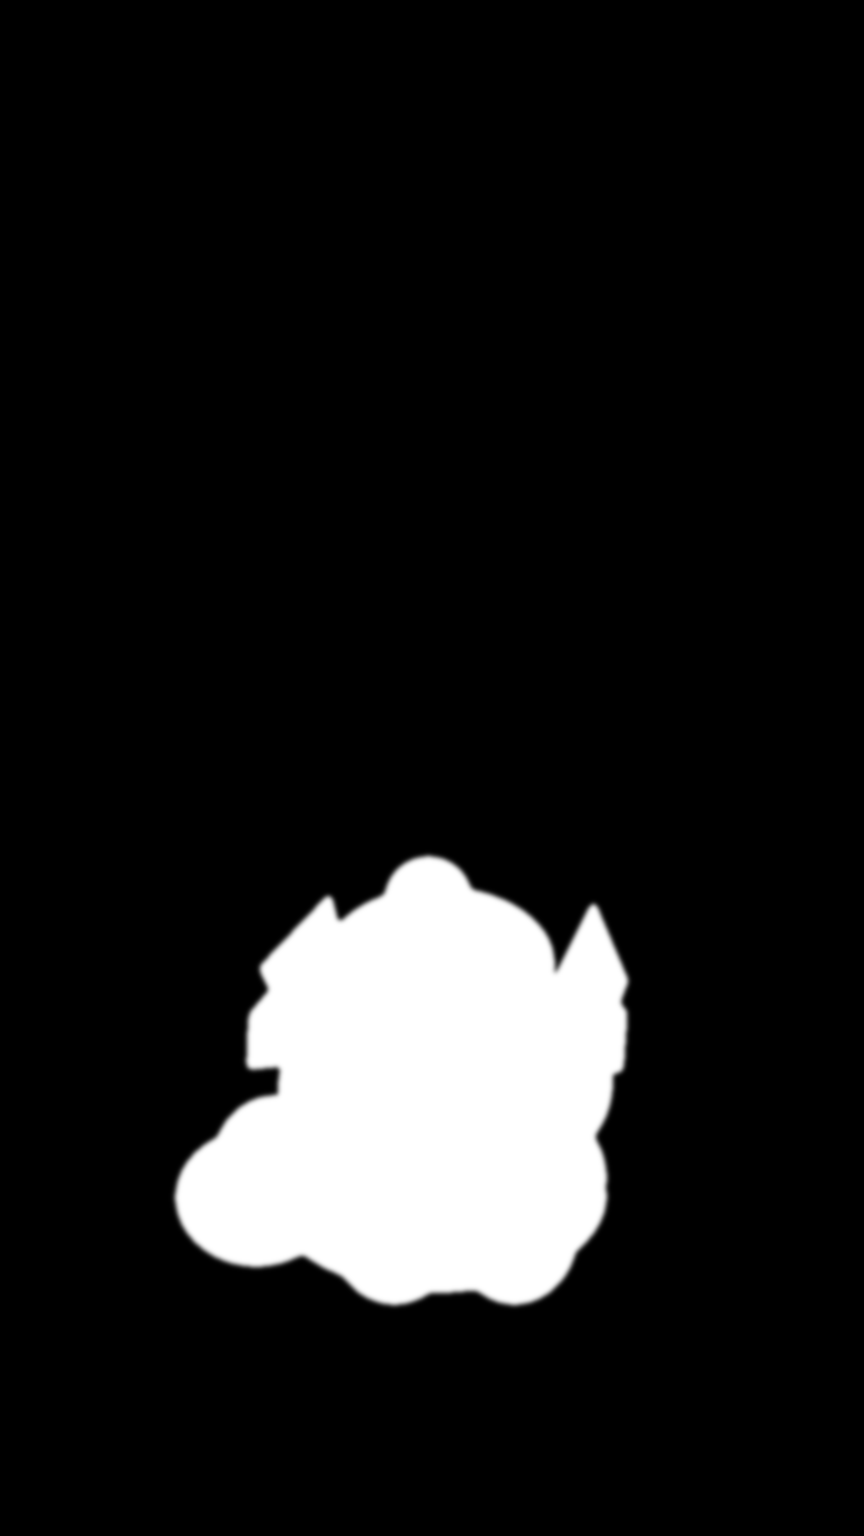
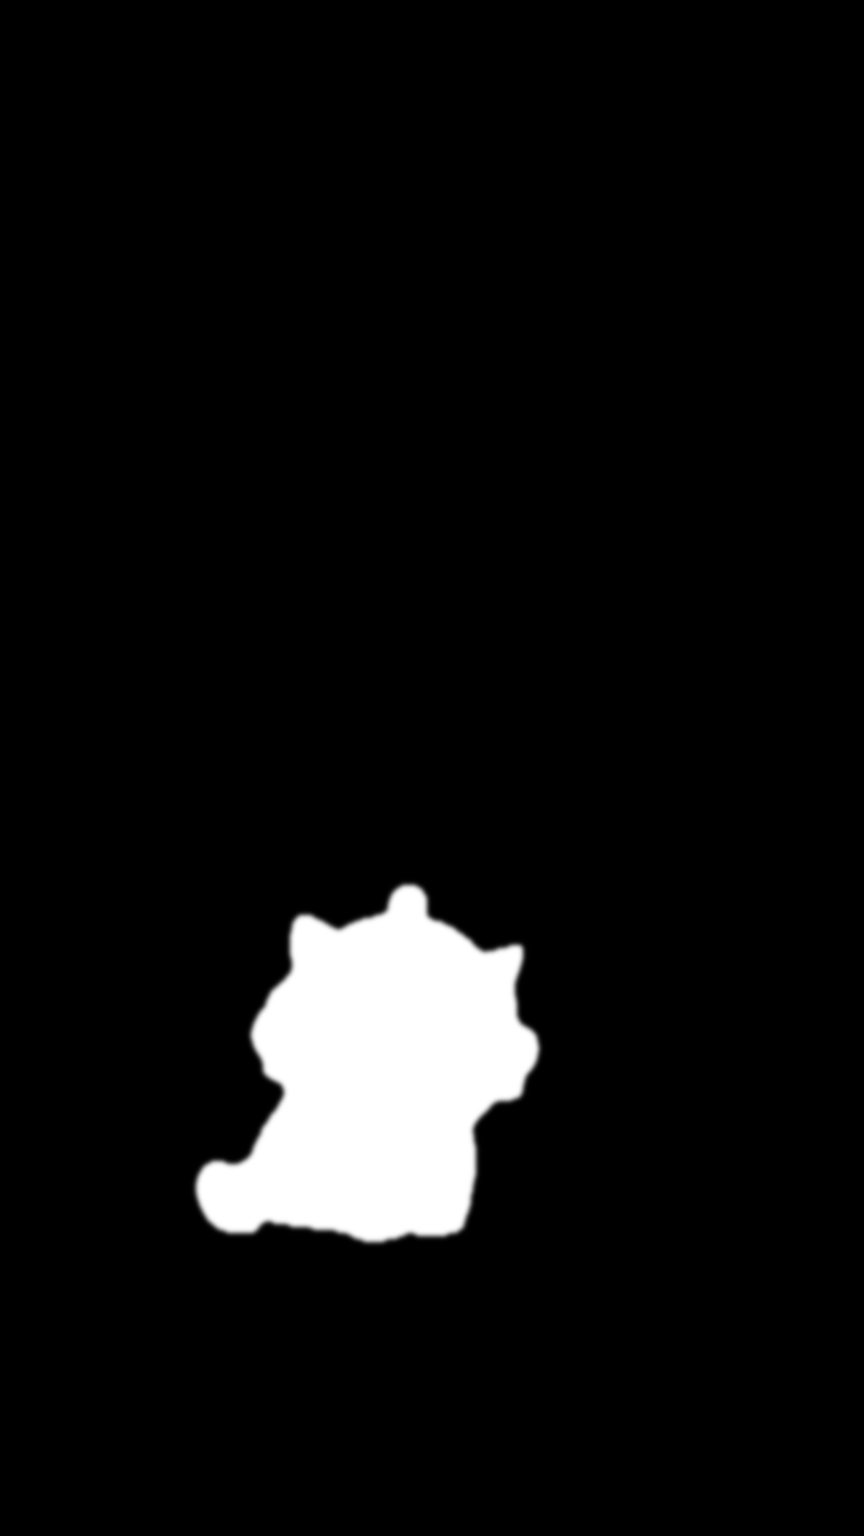
lab1: refresh all derived assets (codex cat cutout mask + Large depth + base.png)
The subject mask was stale, so lab1 looked unchanged. Regenerate it from the codex
cat-only cutout (assets/cat_only.png — clean aligned RGBA matte), rebuild lab1 on
the fresh mask + Large depth + the clean cat-free back plate (base.png). Bump the
asset cache-buster so phones force-reload the new PNGs.

Changed region(s): [[0.1875, 0.5312, 0.75, 0.875]]

diff --git a/index.html b/index.html
@@ -11,7 +11,7 @@
     <meta name="apple-mobile-web-app-title" content="Cat Lock" />
     <meta name="apple-mobile-web-app-status-bar-style" content="black-translucent" />
     <link rel="manifest" href="./manifest.webmanifest" />
-    <link rel="stylesheet" href="./style.css?v=mesh-34" />
+    <link rel="stylesheet" href="./style.css?v=mesh-35" />
     <title>Cat Depth Lock</title>
     <script type="importmap">
       {
@@ -55,6 +55,6 @@
     </main>
 
     <script src="https://unpkg.com/lucide@0.468.0/dist/umd/lucide.min.js" defer></script>
-    <script type="module" src="./app.js?v=mesh-34"></script>
+    <script type="module" src="./app.js?v=mesh-35"></script>
   </body>
 </html>

diff --git a/app.js b/app.js
@@ -19,7 +19,7 @@ const sceneParam = new URLSearchParams(location.search).get("scene");
 const P3D = sceneParam ? `./assets/photo3d_${sceneParam}/` : "./assets/photo3d/";
 // asset cache-buster: bump on any rebuilt PNG so phones don't serve a stale image
 // (index.html's ?v= only refreshes the code, not these depth/colour PNGs).
-const AV = "?a=base1";
+const AV = "?a=base2";
 // core layers always present; protect.png (v2) / subject.png (v3 soft-LDI) are
 // loaded optionally and decide which front-layer path runs (see below).
 const ASSETS = {
